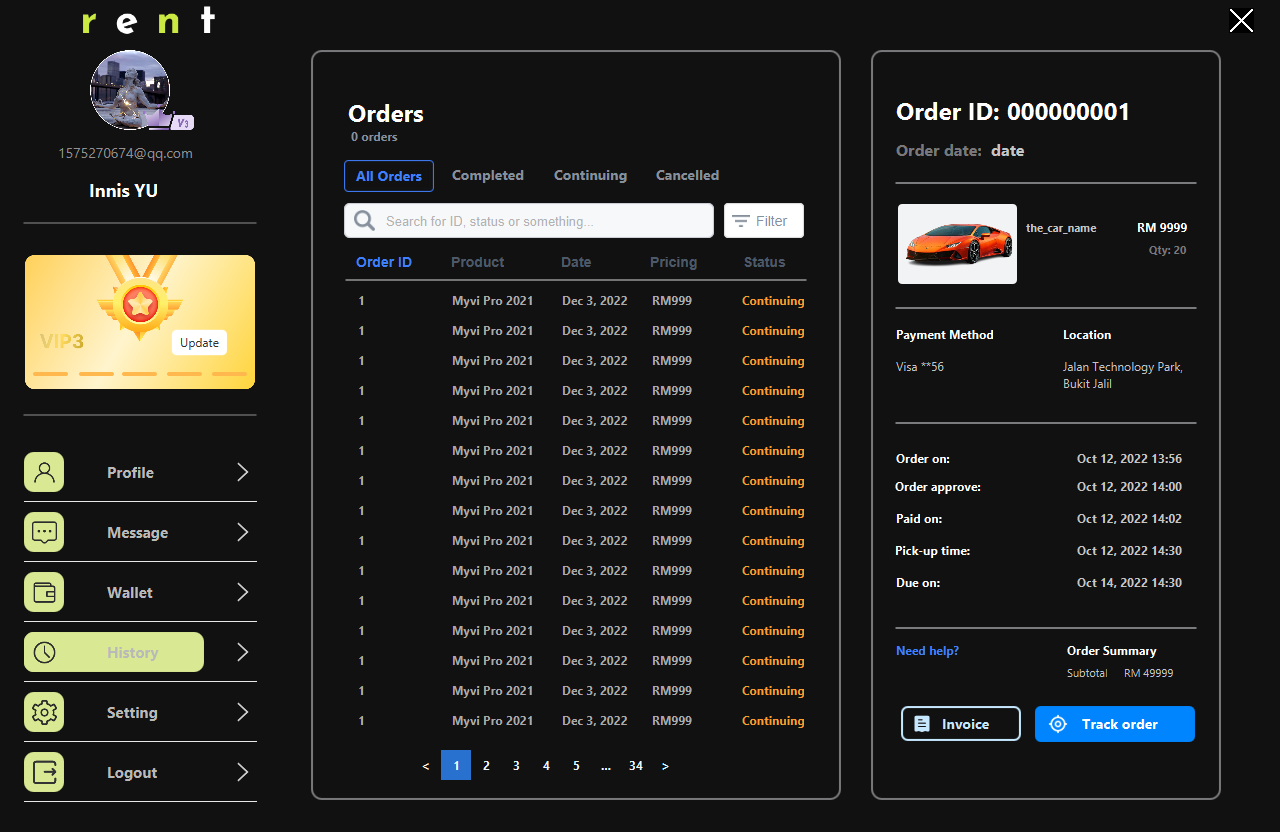
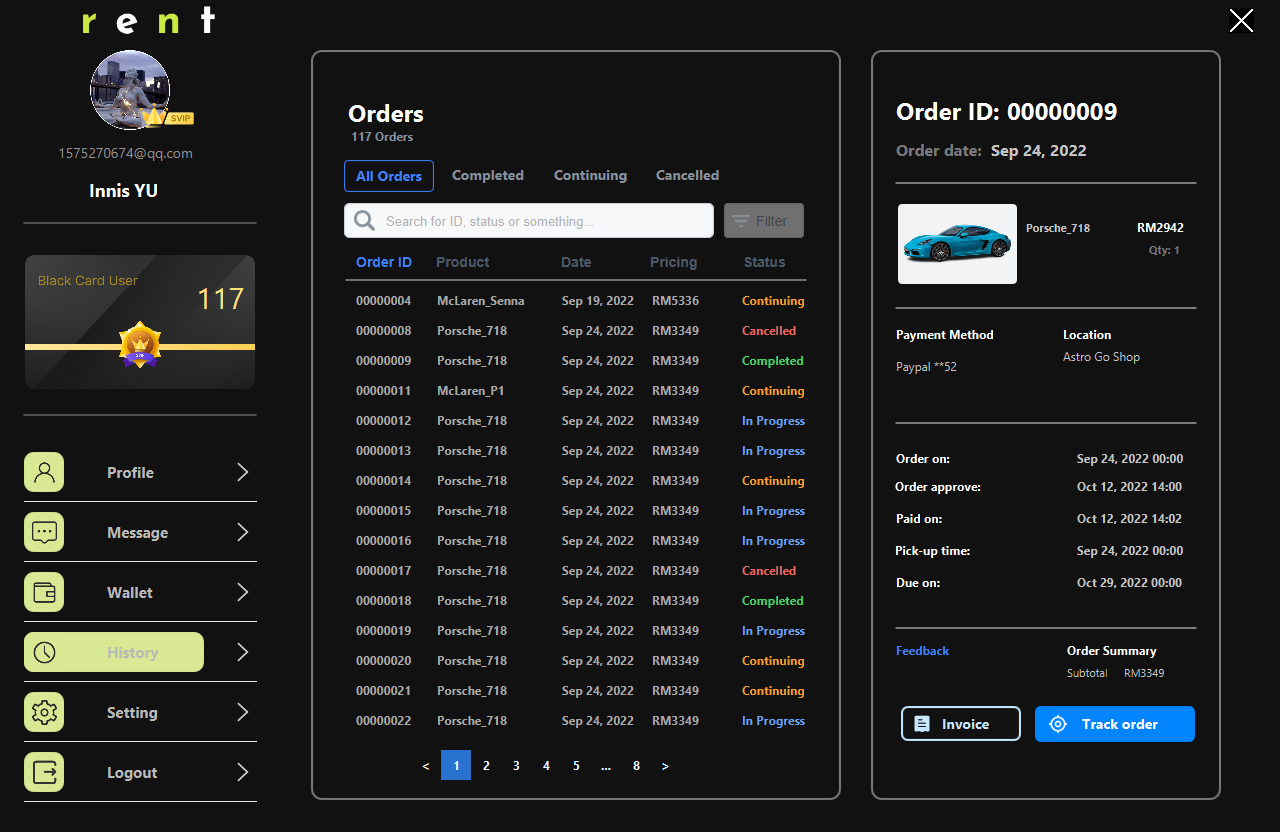
feat: add new UI Screenshots

diff --git a/target/classes/com/example/car_rental_sys/html/dashboard/data.js b/target/classes/com/example/car_rental_sys/html/dashboard/data.js
@@ -1,6 +1,6 @@
-let avatarFolderPath = "E:\Materials\Semester 3\【OODJ】\assignment\version0.1\crs\src\main\resources\com\example\car_rental_sys\image\avatar";
-let headerData = [0,116275,305699];
-let lineData = [{ product: 'Sun', Paid: 0, Delivered: 0, Finished: 0},{ product: 'Mon', Paid: 0, Delivered: 0, Finished: 0},{ product: 'Tue', Paid: 3, Delivered: 2, Finished: 1},{ product: 'Wed', Paid: 6, Delivered: 3, Finished: 1},{ product: 'Thu', Paid: 9, Delivered: 7, Finished: 4},{ product: 'Fri', Paid: 11, Delivered: 8, Finished: 7},{ product: 'Sat', Paid: 11, Delivered: 9, Finished: 9}];
-let pieData = [{value: 9, name: 'Canceled'},{value: 11, name: 'Paid'},{value: 9, name: 'Driving'},{value: 9, name: 'Delivered'},{value: 9, name: 'Finished'}];
+let avatarFolderPath = "C:\Users\GIGA\Desktop\module\school\year2sem1\Java-Car-Rental-System\src\main\resources\com\example\car_rental_sys\image\avatar";
+let headerData = [0,111038,302609];
+let lineData = [{ product: 'Sun', Paid: 0, Delivered: 0, Finished: 0},{ product: 'Mon', Paid: 0, Delivered: 0, Finished: 0},{ product: 'Tue', Paid: 1, Delivered: 1, Finished: 1},{ product: 'Wed', Paid: 5, Delivered: 3, Finished: 1},{ product: 'Thu', Paid: 9, Delivered: 7, Finished: 3},{ product: 'Fri', Paid: 11, Delivered: 8, Finished: 5},{ product: 'Sat', Paid: 11, Delivered: 9, Finished: 8}];
+let pieData = [{value: 8, name: 'Canceled'},{value: 11, name: 'Paid'},{value: 9, name: 'Driving'},{value: 9, name: 'Delivered'},{value: 8, name: 'Finished'}];
 let tableData = [["Innis-YU",9575832245,"2022-07-22",1801],["kk-Tku",7722944471,"2022-09-20",2356],["Jaclyn-Kelley",2518667172,"2022-11-04",2111],["John-Rollins",5130341155,"2022-07-21",2776],["Paul-Jackson",1916032978,"2022-10-09",3782],];
 let activityCardData = [[23,"Ryan Cameron","13:43","Delivered"],[7,"Paul-Jackson","04:26","Delivering"],[7,"Paul-Jackson","04:26","Delivering"],[7,"Paul-Jackson","04:28","Delivered"],[20,"Robert Murphy","21:42","Delivering"],[20,"Robert Murphy","21:42","Delivering"],];

diff --git a/target/classes/com/example/car_rental_sys/html/incomeAnalysis/data.js b/target/classes/com/example/car_rental_sys/html/incomeAnalysis/data.js
@@ -1,3 +1,3 @@
-let monthOrderData = [305699,121,53,3998];
+let monthOrderData = [302609,120,53,3998];
 let lineData = [12,21,86,12,22,21,17,18,13,30,18,21,21,18,17,11,13,17,16,13,24,12,17,21,]
 let barData = [36258,43986,38231,68284,57186,42303,42239,66385,324387,161439,167739,251205,]

diff --git a/src/main/java/com/example/car_rental_sys/Application.java b/src/main/java/com/example/car_rental_sys/Application.java
@@ -79,8 +79,8 @@ public class Application extends javafx.application.Application {
         stageInstance = stage;
 
         //setUser("d");
-        setUser("a");
-        //setUser("c");
+        //setUser("a");
+        setUser("c");
 
         //Test.test();
 
